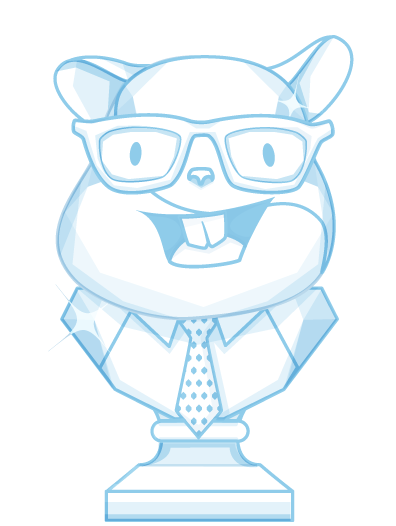
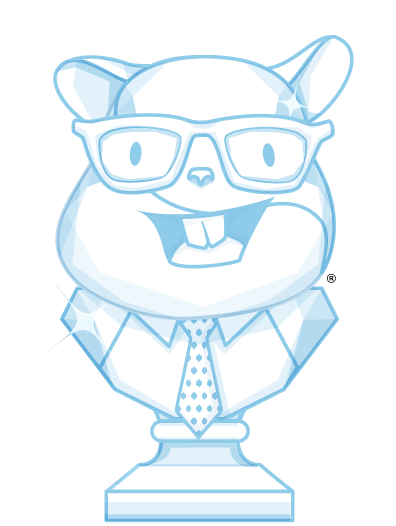
bdec4da Missing Tomsters, Zoeys, TM symbols, art updates

Changed region(s): [[0.8182, 0.5171, 0.8485, 0.5475]]

diff --git a/tomster/index.html b/tomster/index.html
@@ -54,9 +54,9 @@
     <div id="content-wrapper">
       <div id="content" >
         <div class="tomster section intro">
-  <h1>The Tomster</h1>
+  <h1>The Tomster and Zoey</h1>
   <p>
-    Tomster is one of the friendly faces of the Ember project and community. Over the years we've dressed and redressed him for all sorts of fun projects and reasons.
+    Tomster was the first of many friendly faces of the Ember project and community. Over the years we've dressed and redressed him for all sorts of fun projects and reasons. With the addition of his sister Zoey, you'll see Ember friends around even more.
   <p>
   <p>
     The Tomster is a registered and protected trademark. These images may not be used without specific and explicit consent (which we aim never to hold back unreasonably). If you have questions about using or commissioning a Tomster, <a href="/tomster/faq">check out the FAQ</a>.
@@ -65,6 +65,70 @@
 
 <div class="tomster section list">
   <table id="tomster-list">
+      <tr>
+          <td>
+            <div class="tomster-container">
+              <div class="tomster-image">
+                <img src="/images/tomsters/sandiego-zoey.png">
+              </div>
+              <div class="tomster-info">
+                <a href="http://www.meetup.com/sandiego-ember/" class="title">
+                  San Diego Zoey
+                </a>
+                <div class="date">
+                  May 31, 2016
+                </div>
+              </div>
+            </div>
+          </td>
+          <td>
+            <div class="tomster-container">
+              <div class="tomster-image">
+                <img src="/images/tomsters/amsterdam.png">
+              </div>
+              <div class="tomster-info">
+                <a href="http://www.meetup.com/Ember-js-Amsterdam/" class="title">
+                  Amsterdam Tomster
+                </a>
+                <div class="date">
+                  May 31, 2016
+                </div>
+              </div>
+            </div>
+          </td>
+      </tr>
+      <tr>
+          <td>
+            <div class="tomster-container">
+              <div class="tomster-image">
+                <img src="/images/tomsters/zoey.png">
+              </div>
+              <div class="tomster-info">
+                <a href="http://www.emberjs.com/tomster" class="title">
+                  Classic Zoey
+                </a>
+                <div class="date">
+                  March 23, 2016
+                </div>
+              </div>
+            </div>
+          </td>
+          <td>
+            <div class="tomster-container">
+              <div class="tomster-image">
+                <img src="/images/tomsters/raleigh.png">
+              </div>
+              <div class="tomster-info">
+                <a href="http://triangleember.com/" class="title">
+                  Raleigh Tomster
+                </a>
+                <div class="date">
+                  March 8, 2016
+                </div>
+              </div>
+            </div>
+          </td>
+      </tr>
       <tr>
           <td>
             <div class="tomster-container">
